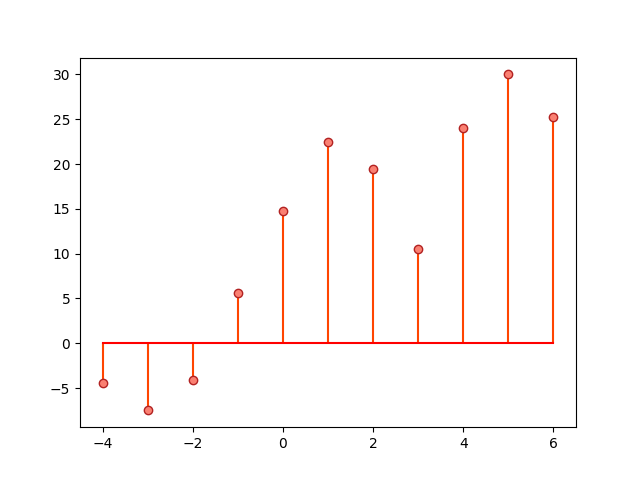
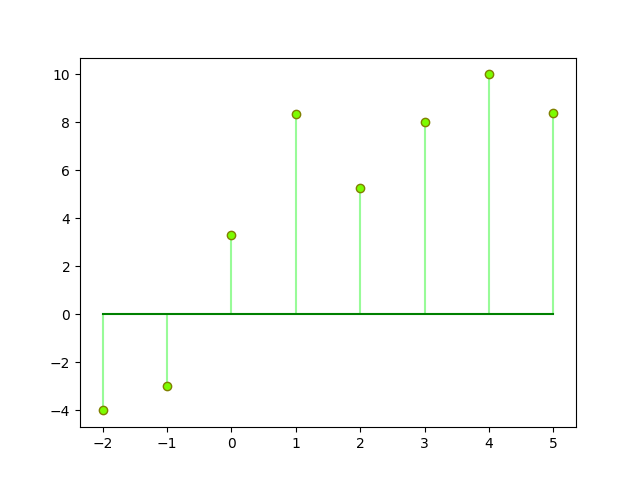
rebuilt docs and updated readme

diff --git a/docs/build/html/searchindex.js b/docs/build/html/searchindex.js
@@ -1,1 +1,1 @@
-Search.setIndex({docnames:["index","modules","signals","systems"],envversion:{"sphinx.domains.c":2,"sphinx.domains.changeset":1,"sphinx.domains.citation":1,"sphinx.domains.cpp":4,"sphinx.domains.index":1,"sphinx.domains.javascript":2,"sphinx.domains.math":2,"sphinx.domains.python":3,"sphinx.domains.rst":2,"sphinx.domains.std":2,sphinx:56},filenames:["index.rst","modules.rst","signals.rst","systems.rst"],objects:{"DiscreteTimeLib.signals":[[2,1,1,"","DiscreteTimeSignal"]],"DiscreteTimeLib.signals.DiscreteTimeSignal":[[2,2,1,"","__add__"],[2,2,1,"","__mul__"],[2,2,1,"","__sub__"],[2,2,1,"","conv"],[2,2,1,"","keys"],[2,2,1,"","scalar_mul"],[2,2,1,"","values"]],"DiscreteTimeLib.systems":[[3,1,1,"","DiscreteTimeSystem"]],"DiscreteTimeLib.systems.DiscreteTimeSystem":[[3,2,1,"","filter"],[3,2,1,"","iztrans"]],DiscreteTimeLib:[[2,0,0,"-","signals"],[3,0,0,"-","systems"]]},objnames:{"0":["py","module","Python module"],"1":["py","class","Python class"],"2":["py","method","Python method"]},objtypes:{"0":"py:module","1":"py:class","2":"py:method"},terms:{"0":2,"1":[2,3],"12":2,"2":[2,3],"3":[2,3],"4":2,"5":2,"class":[2,3],"float":2,"function":[2,3],"int":2,"return":[2,3],For:[2,3],One:3,__add__:2,__mul__:2,__sub__:2,a_0:3,a_1:3,a_m:3,add:2,adjac:2,all:2,an:3,appli:3,ar:3,arrai:[2,3],b:3,b_0:3,b_1:3,b_n:3,between:2,coeffici:3,comput:[2,3],conv:2,convolut:2,data:2,denomin:3,depend:2,digit:[2,3],dimension:[2,3],discret:[2,3],discretetimesign:[2,3],discretetimesystem:3,e:[2,3],element:2,exampl:2,express:3,fetch:2,filter:3,frac:3,from:3,g:[2,3],given:[2,3],h:3,implement:[2,3],inclus:3,index:0,indic:[2,3],iztran:3,kei:2,like:[2,3],m:3,modul:0,multipl:2,n:[2,3],n_rang:3,ndarrai:[2,3],none:3,numer:3,numpi:2,object:[2,3],option:3,otherwis:3,page:0,param:2,paramet:[2,3],print:2,process:2,rang:3,repres:[2,3],result:2,scalar:2,scalar_mul:2,scale:2,search:0,set:3,sig:[2,3],signal:[0,1,3],subtract:2,summat:2,sympi:3,system:[0,1],thi:2,time:[2,3],transfer:3,transform:3,two:2,type:[2,3],valu:2,x:2,x_n:2,z:3},titles:["Welcome to DiscreteTimeLib\u2019s documentation!","DiscreteTimeLib","DiscreteTimeLib.signals","DiscreteTimeLib.systems"],titleterms:{content:0,discretetimelib:[0,1,2,3],document:0,indic:0,s:0,signal:2,system:3,tabl:0,welcom:0}})
+Search.setIndex({docnames:["index","modules","signals","systems"],envversion:{"sphinx.domains.c":2,"sphinx.domains.changeset":1,"sphinx.domains.citation":1,"sphinx.domains.cpp":4,"sphinx.domains.index":1,"sphinx.domains.javascript":2,"sphinx.domains.math":2,"sphinx.domains.python":3,"sphinx.domains.rst":2,"sphinx.domains.std":2,sphinx:56},filenames:["index.rst","modules.rst","signals.rst","systems.rst"],objects:{"DiscreteTimeLib.signals":[[2,1,1,"","DiscreteTimeSignal"]],"DiscreteTimeLib.signals.DiscreteTimeSignal":[[2,2,1,"","__add__"],[2,2,1,"","__mul__"],[2,2,1,"","__sub__"],[2,2,1,"","conv"],[2,2,1,"","keys"],[2,2,1,"","scalar_mul"],[2,2,1,"","values"]],"DiscreteTimeLib.systems":[[3,1,1,"","DiscreteTimeSystem"]],"DiscreteTimeLib.systems.DiscreteTimeSystem":[[3,2,1,"","filter"],[3,2,1,"","iztrans"]],DiscreteTimeLib:[[2,0,0,"-","signals"],[3,0,0,"-","systems"]]},objnames:{"0":["py","module","Python module"],"1":["py","class","Python class"],"2":["py","method","Python method"]},objtypes:{"0":"py:module","1":"py:class","2":"py:method"},terms:{"0":2,"1":[2,3],"12":2,"2":[2,3],"3":[2,3],"4":2,"5":2,"class":[2,3],"float":2,"function":[2,3],"int":2,"return":[2,3],For:[2,3],One:3,__add__:2,__mul__:2,__sub__:2,a_0:3,a_1:3,a_m:3,add:2,adjac:2,all:2,an:3,appli:3,ar:3,arrai:[2,3],b:3,b_0:3,b_1:3,b_n:3,between:2,coeffici:3,comput:[2,3],conv:2,convolut:2,creat:3,data:2,denomin:3,depend:2,digit:[2,3],dimension:[2,3],discret:[2,3],discretetimesign:[2,3],discretetimesystem:3,dtype:2,e:[2,3],element:2,exampl:2,express:3,fetch:2,filter:3,float64:2,frac:3,from:3,g:[2,3],given:[2,3],h:3,implement:[2,3],inclus:3,index:0,indic:[2,3],iztran:3,kei:2,like:[2,3],m:3,modul:0,multipl:2,n:[2,3],n_rang:3,ndarrai:[2,3],none:3,numer:3,numpi:2,object:[2,3],onli:3,option:[2,3],otherwis:3,page:0,param:2,paramet:[2,3],print:2,process:2,rang:3,repres:[2,3],result:2,scalar:2,scalar_mul:2,scale:2,search:0,set:3,sig:[2,3],signal:[0,1,3],subtract:2,summat:2,symbol:3,sympi:3,system:[0,1],thi:[2,3],time:[2,3],transfer:3,transform:3,two:2,type:[2,3],us:3,valu:2,variabl:3,x:2,x_n:2,z:3},titles:["Welcome to DiscreteTimeLib\u2019s documentation!","DiscreteTimeLib","DiscreteTimeLib.signals","DiscreteTimeLib.systems"],titleterms:{content:0,discretetimelib:[0,1,2,3],document:0,indic:0,s:0,signal:2,system:3,tabl:0,welcom:0}})

diff --git a/docs/build/html/signals.html b/docs/build/html/signals.html
@@ -173,15 +173,18 @@
 <span id="discretetimelib-signals"></span><h1>DiscreteTimeLib.signals<a class="headerlink" href="#module-DiscreteTimeLib.signals" title="Permalink to this headline">¶</a></h1>
 <dl class="py class">
 <dt class="sig sig-object py" id="DiscreteTimeLib.signals.DiscreteTimeSignal">
-<em class="property"><span class="pre">class</span><span class="w"> </span></em><span class="sig-prename descclassname"><span class="pre">DiscreteTimeLib.signals.</span></span><span class="sig-name descname"><span class="pre">DiscreteTimeSignal</span></span><span class="sig-paren">(</span><em class="sig-param"><span class="n"><span class="pre">data</span></span><span class="o"><span class="pre">=</span></span><span class="default_value"><span class="pre">()</span></span></em><span class="sig-paren">)</span><a class="headerlink" href="#DiscreteTimeLib.signals.DiscreteTimeSignal" title="Permalink to this definition">¶</a></dt>
+<em class="property"><span class="pre">class</span><span class="w"> </span></em><span class="sig-prename descclassname"><span class="pre">DiscreteTimeLib.signals.</span></span><span class="sig-name descname"><span class="pre">DiscreteTimeSignal</span></span><span class="sig-paren">(</span><em class="sig-param"><span class="n"><span class="pre">data=()</span></span></em>, <em class="sig-param"><span class="n"><span class="pre">dtype=&lt;class</span> <span class="pre">'numpy.float64'&gt;</span></span></em><span class="sig-paren">)</span><a class="headerlink" href="#DiscreteTimeLib.signals.DiscreteTimeSignal" title="Permalink to this definition">¶</a></dt>
 <dd><p>Discrete-time signal object, implemented with digital signal processing
 functions.</p>
 <dl class="field-list simple">
 <dt class="field-odd">Parameters</dt>
-<dd class="field-odd"><p><strong>data</strong> (<em>numpy.ndarray</em>) – <p>Two-dimensional array-like representing signal data.</p>
+<dd class="field-odd"><ul class="simple">
+<li><p><strong>data</strong> (<em>ndarray</em>) – <p>Two-dimensional array-like representing signal data.</p>
 <p>For e.g., <code class="docutils literal notranslate"><span class="pre">((0,</span> <span class="pre">2),</span> <span class="pre">(1,</span> <span class="pre">4))</span></code> indicates <code class="docutils literal notranslate"><span class="pre">x[0]</span> <span class="pre">=</span> <span class="pre">2</span></code> and
 <code class="docutils literal notranslate"><span class="pre">x[1]</span> <span class="pre">=</span> <span class="pre">4</span></code>.</p>
-</p>
+</p></li>
+<li><p><strong>dtype</strong> (<em>float</em><em>, </em><em>optional</em>) – Data type of signal values.</p></li>
+</ul>
 </dd>
 </dl>
 <p class="rubric">Examples</p>

diff --git a/docs/build/html/systems.html b/docs/build/html/systems.html
@@ -215,15 +215,17 @@ denominator coefficients.</p></li>
 <dl class="field-list simple">
 <dt class="field-odd">Parameters</dt>
 <dd class="field-odd"><p><strong>n_range</strong> (<em>ndarray</em><em>, </em><em>optional</em>) – Range of indices to compute z-transform for. For e.g. set
-<code class="docutils literal notranslate"><span class="pre">n_range</span> <span class="pre">=</span> <span class="pre">[-1,</span> <span class="pre">3]</span></code> to compute from <code class="docutils literal notranslate"><span class="pre">n</span> <span class="pre">=</span> <span class="pre">-1`</span> <span class="pre">to</span> <span class="pre">``n</span> <span class="pre">=</span> <span class="pre">2</span></code>
+<code class="docutils literal notranslate"><span class="pre">n_range</span> <span class="pre">=</span> <span class="pre">[-1,</span> <span class="pre">3]</span></code> to compute from <code class="docutils literal notranslate"><span class="pre">n</span> <span class="pre">=</span> <span class="pre">-1</span></code> to <code class="docutils literal notranslate"><span class="pre">n</span> <span class="pre">=</span> <span class="pre">2</span></code>
 inclusive.</p>
 </dd>
 <dt class="field-even">Returns</dt>
-<dd class="field-even"><p>Z-transform of the system, computed as an array if <code class="docutils literal notranslate"><span class="pre">n_range</span></code>
-is given, computed as a sympy expression otherwise.</p>
-</dd>
-<dt class="field-odd">Return type</dt>
-<dd class="field-odd"><p>ndarray or sympy expression</p>
+<dd class="field-even"><p><ul class="simple">
+<li><p><strong>iztrans</strong> (<em>ndarray or sympy expression</em>) – Z-transform of the system, computed as an array if <code class="docutils literal notranslate"><span class="pre">n_range</span></code>
+is given, computed as a sympy expression otherwise.</p></li>
+<li><p><strong>n</strong> (<em>sympy Symbol</em>) – Symbolic variable used to create sympy expression. This is only
+returned if <code class="docutils literal notranslate"><span class="pre">n_range</span></code> is not given.</p></li>
+</ul>
+</p>
 </dd>
 </dl>
 </dd></dl>

diff --git a/docs/demos/readme_demo.py b/docs/demos/readme_demo.py
@@ -1,0 +1,43 @@
+from DiscreteTimeLib import DiscreteTimeSignal
+import matplotlib.pyplot as plt
+
+data = ((-1, -2), (0, 1), (1, 2.5), (4, 4))
+x_n = DiscreteTimeSignal(data)
+print(x_n)
+
+markerline, stemlines, baseline = plt.stem(x_n.keys(), x_n.values())
+plt.setp(markerline, 'markerfacecolor', 'salmon')
+plt.setp(markerline, 'markeredgecolor', 'firebrick')
+plt.setp(stemlines, 'color', 'orangered')
+plt.setp(baseline, 'color', 'red')
+plt.show()
+
+data = ((-1, 2), (0, 2.5), (1, 2.1))
+h_n = DiscreteTimeSignal(data)
+y_n = h_n * x_n
+print(y_n)
+
+markerline, stemlines, baseline = plt.stem(y_n.keys(), y_n.values())
+plt.setp(markerline, 'markerfacecolor', 'lawngreen')
+plt.setp(markerline, 'markeredgecolor', 'olive')
+plt.setp(stemlines, 'color', 'palegreen')
+plt.setp(baseline, 'color', 'green')
+plt.show()
+
+from DiscreteTimeLib import DiscreteTimeSystem
+
+b = (1,)
+a = (1, -1)
+H = DiscreteTimeSystem(b, a)
+y_n = H.filter(x_n)
+print(y_n)
+
+markerline, stemlines, baseline = plt.stem(y_n.keys(), y_n.values())
+plt.setp(markerline, 'markerfacecolor', 'deepskyblue')
+plt.setp(markerline, 'markeredgecolor', 'teal')
+plt.setp(stemlines, 'color', 'turquoise')
+plt.setp(baseline, 'color', 'cyan')
+plt.show()
+
+h_n, n = H.iztrans()
+print(h_n)

diff --git a/README.md b/README.md
@@ -4,6 +4,8 @@
 
 ## Overview
 
+### Discrete Time Signals
+
 The `DiscreteTimeSignal` class can be used to model a discrete-time signal:
 
 ```python
@@ -12,17 +14,14 @@ The `DiscreteTimeSignal` class can be used to model a discrete-time signal:
 ```
 
 ```python
->>> data = ((-3, -2.2), (-2, -1), (-1, 1.5), (0, 2), (1, 3.3), (2, 5), (5, 12))
+>>> data = ((-1, -2), (0, 1), (1, 2.5), (4, 4))
 >>> x_n = DiscreteTimeSignal(data)
 >>> print(x_n)
     x[n]
--3  -2.2
--2  -1.0
--1   1.5
- 0   2.0
- 1   3.3
- 2   5.0
- 5  12.0
+-1  -2.0
+ 0   1.0
+ 1   2.5
+ 4   4.0
 ```
 
 ```python
@@ -36,25 +35,24 @@ The `DiscreteTimeSignal` class can be used to model a discrete-time signal:
 
 ![Discrete Time Signal Plot](img/discrete_time_signal_plot.png)
 
+### Convolution
+
 `DiscreteTimeSignal` supports various operations, including **convolution**:
 
 ```python
 >>> data = ((-1, 2), (0, 2.5), (1, 2.1))
->>> y_n = DiscreteTimeSignal(data)
->>> conv = x_n * y_n
->>> print(conv)
+>>> h_n = DiscreteTimeSignal(data)
+>>> y_n = h_n * x_n
+>>> print(y_n)
      x[n]
--4  -4.40
--3  -7.50
--2  -4.12
--1   5.65
- 0  14.75
- 1  22.45
- 2  19.43
- 3  10.50
- 4  24.00
- 5  30.00
- 6  25.20
+-2  -4.00
+-1  -3.00
+ 0   3.30
+ 1   8.35
+ 2   5.25
+ 3   8.00
+ 4  10.00
+ 5   8.40
 ```
 
 ```python
@@ -68,6 +66,8 @@ The `DiscreteTimeSignal` class can be used to model a discrete-time signal:
 
 ![Convolution Plot](img/convolution_plot.png)
 
+### Filtering
+
 The `DiscreteTimeSystem` class can be used to model a discrete-time system and apply the system filter on a signal:
 
 ```python
@@ -79,15 +79,12 @@ The `DiscreteTimeSystem` class can be used to model a discrete-time system and a
 >>> y_n = H.filter(x_n)
 >>> print(y_n)
     x[n]
--3  -2.2
--2  -3.2
--1  -1.7
- 0   0.3
- 1   3.6
- 2   8.6
- 3   8.6
- 4   8.6
- 5  20.6
+-1  -2.0
+ 0  -1.0
+ 1   1.5
+ 2   1.5
+ 3   1.5
+ 4   5.5
 ```
 
 ```python
@@ -100,6 +97,16 @@ The `DiscreteTimeSystem` class can be used to model a discrete-time system and a
 ```
 
 ![Filtered Signal Plot](img/filtered_signal_plot.png)
+
+### Inverse z-transforms
+
+The `DiscreteTimeSystem` class can also compute the inverse z-transform in the form of a [Sympy](https://www.sympy.org/) expression:
+
+```python
+>>> h_n, n = H.iztrans()
+>>> print(h_n)
+1.0*Heaviside(n, 1)
+```
 
 ## Installation
 
